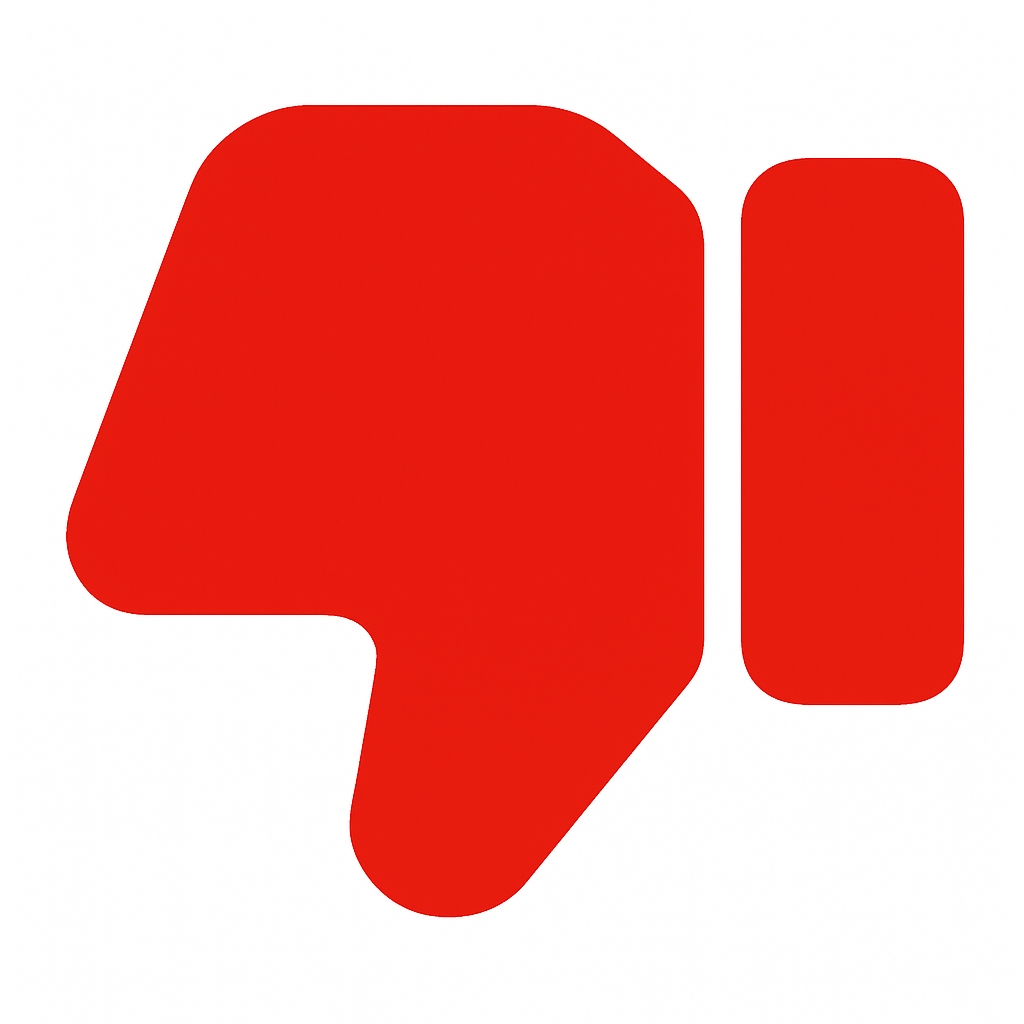
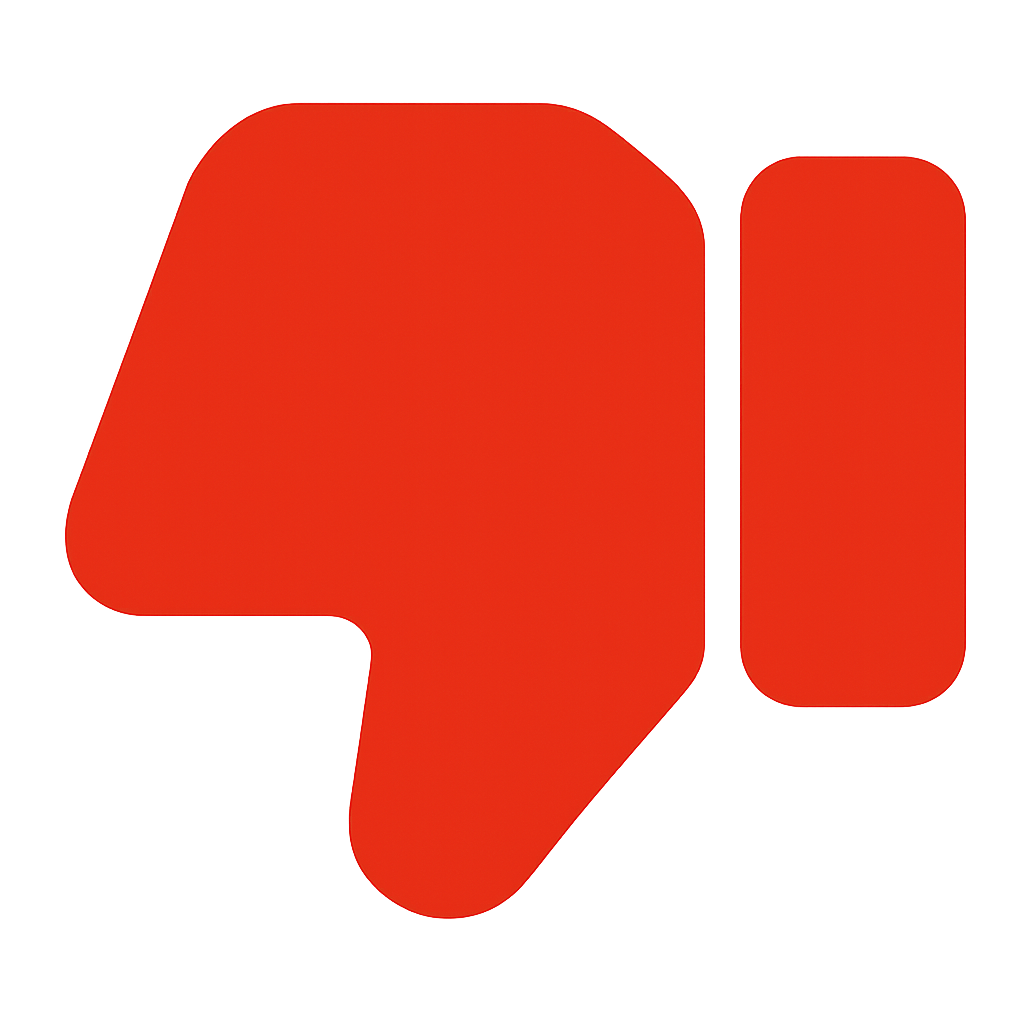
lavede dislike

diff --git a/frontend/index.js b/frontend/index.js
@@ -239,6 +239,7 @@ function showCurrentTrack() {
         likeButton.classList.remove('liked');
         likeButton.src = 'img/like.png';
         likeButton.setAttribute('aria-pressed', 'false');
+        imgDislike.src = 'img/dislike.png';
         isLiked();
 
     // Play local file named by track_id if present in /tracks
@@ -359,6 +360,7 @@ function playLikedTracks() {
         likeButton.classList.remove('liked');
         likeButton.src = 'img/like.png';
         likeButton.setAttribute('aria-pressed', 'false');
+        imgDislike.src = 'img/dislike.png';
         isLiked();
     try {
         if (audio && current.track_id) {
@@ -371,11 +373,13 @@ function playLikedTracks() {
     }
 }
 const dislikeArray = [];
-document.getElementById('imgDislike').addEventListener('click', function(){
+imgDislike.addEventListener('click', function(){
    for(let i=0;i<trackList.length;i++){
         if(nextTrack.innerHTML.includes(trackList[i].title)){
             dislikeArray.push(trackList[i]);
-            trackList.pop(trackList[i]);
+            console.log('removed', trackList[i].title, 'from playlist');
+            trackList.splice(i,1);
+            imgDislike.src='img/red thumb.png';
         }
    } 
 })
